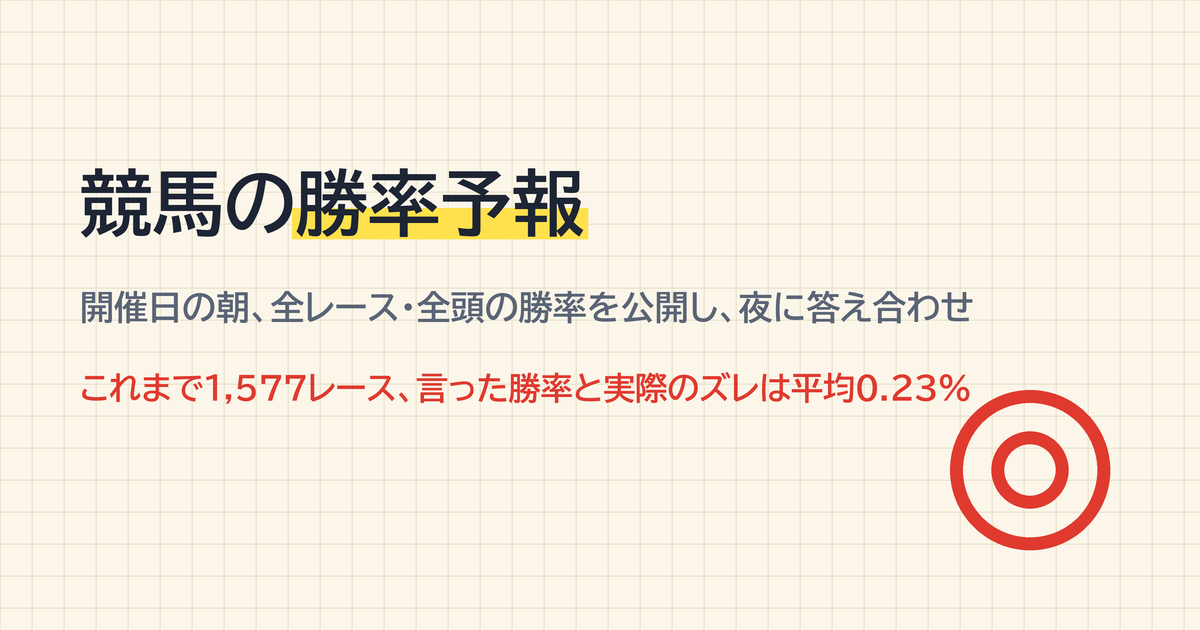
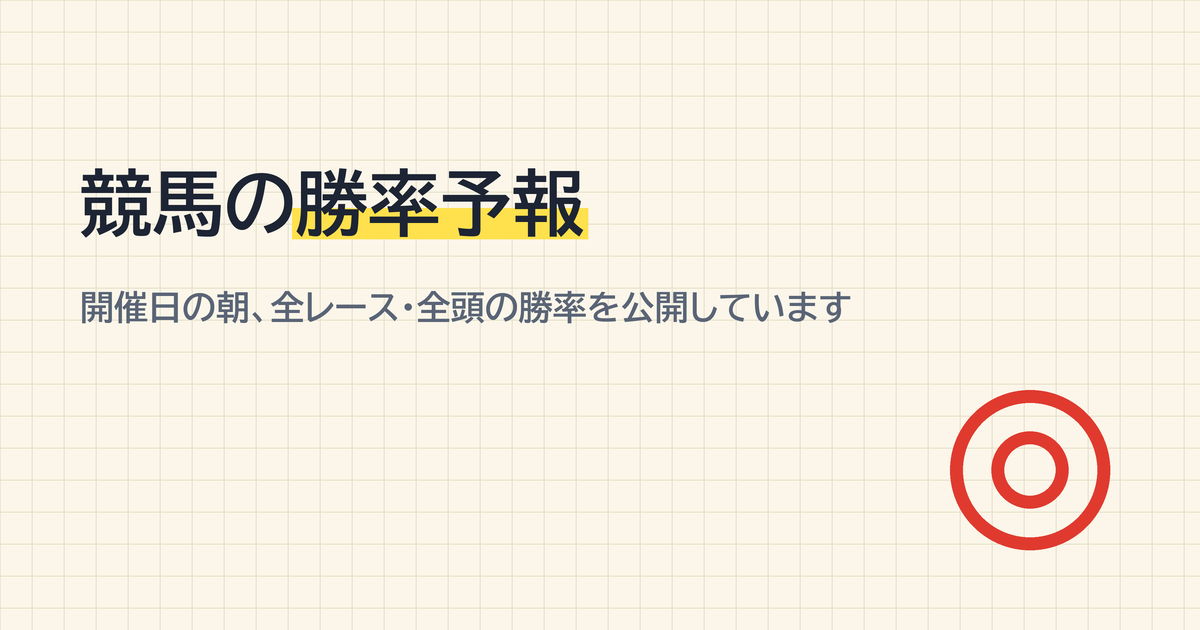
add: データコラムを公開

Changed region(s): [[0.0617, 0.573, 0.8017, 0.6635], [0.5858, 0.4524, 0.8325, 0.5127]]

diff --git a/index.html b/index.html
@@ -3,10 +3,10 @@
 <meta charset="utf-8">
 <meta name="viewport" content="width=device-width,initial-scale=1">
 <title>勝率予報 — 発走前に出した勝率と、その結果</title>
-<meta name="description" content="競馬AIが発走前に計算した全頭の勝率を公開し、結果と突き合わせた記録です。1,577レース21,220頭ぶん。">
+<meta name="description" content="競馬AIが計算した全頭の勝率を、レースが始まる前に公開しています。公開した数字はあとから書き換えません。">
 <meta property="og:type" content="website">
 <meta property="og:title" content="勝率予報 — 発走前に出した勝率と、その結果">
-<meta property="og:description" content="競馬AIが発走前に計算した全頭の勝率を公開し、結果と突き合わせた記録です。1,577レース21,220頭ぶん。">
+<meta property="og:description" content="競馬AIが計算した全頭の勝率を、レースが始まる前に公開しています。公開した数字はあとから書き換えません。">
 <meta property="og:url" content="https://akiaki4646.github.io/">
 <meta property="og:image" content="https://akiaki4646.github.io/ogp_default.png">
 <meta name="twitter:card" content="summary_large_image">
@@ -91,22 +91,14 @@ margin-bottom:6px}
 <nav class="sitenav" aria-label="サイトメニュー"><a class="home" href="/">勝率予報</a><a href="/column/">データコラム</a><a href="/method.html">予測のしくみ</a><a href="/race/">過去の予報</a><a href="/about.html">運営者情報</a></nav>
 <a class="hero" href="race/20261115.html"><img src="ogp_default.png" alt="勝率予報"></a>
 
-<h1>発走前に出した勝率を、<span class="mk">結果と突き合わせた</span>記録</h1>
-<p class="lead">競馬AIが計算した全頭の勝率を、レースが始まる前に公開しています。
-1,577レース・21,220頭ぶんの予報と結果がこのページに載っています。
-「30%」と予報した馬は、実際に34%が勝ちました。</p>
+<h1>発走前に出した勝率を、<span class="mk">書き換えずに</span>残しています</h1>
+<p class="lead">競馬AIが計算した全頭の勝率を、レースが始まる前に公開しています。</p>
 <p class="lead">当たった予報だけを後から選ぶことができないよう、
 予測は<strong>発走前の時点で保存</strong>し、後から書き換えていません。</p>
 <p class="lead">予報は、開催日の<strong>朝9時10分ごろ</strong>に、その日の全レースぶんを出します。
 前の日の夜にはまだありません。出たものは<a href="race/20261115.html">最新の勝率予報</a>から見られます。</p>
-
-<div class="kpi">
-  <div><b>0.23%</b><span>予報と結果の平均的なズレ</span></div>
-  <div><b>1,577</b><span>検証したレース</span></div>
-  <div><b>21,220</b><span>検証した頭数</span></div>
-</div>
-<p class="note">※ここでの「合っている」は、予報した確率どおりの割合で実際に起きている、という意味です。
-<strong>儲かることを意味しません</strong>。この予報どおりに買っても、控除率のぶん回収率は100%を下回ります。</p>
+<p class="note">※勝率が合っていることは、<strong>儲かることを意味しません</strong>。
+この予報どおりに買っても、控除率のぶん回収率は100%を下回ります。</p>
 
 <div class="follow">
   <a href="column/index.html">データコラムを読む</a>
@@ -114,51 +106,23 @@ margin-bottom:6px}
   <a href="race/20261115.html">最新の勝率予報</a>
 </div>
 
-<h2>帯ごとの答え合わせ</h2>
-<p>「勝率20〜30%と予報した馬は、本当にそのとおり勝ったのか」を帯ごとに並べています。
-検定に用いた9帯すべてで、予報した値は実際の結果の95%信頼区間に収まりました。
-ただし<strong>この「すべて一致」を成績として読まないでください</strong>。
-頭数の少ない帯は、そもそも一致しないほうが難しいだけです。
-意味があるのは頭数の多い上位3帯で、そこで合っていることがこの表の中身です。
-（下の表は読みやすさのため、頭数の少ない帯をまとめて7行にしています）</p>
-<table>
-<thead><tr><th>予報した勝率</th><th>頭数</th><th>予報</th><th>結果</th><th>差</th></tr></thead>
-<tbody><tr><td>0〜10%</td><td>16,186</td><td>3.0%</td><td>3.0%</td><td class='gap'>+0.0pt</td></tr><tr><td>10〜20%</td><td>2,877</td><td>14.1%</td><td>13.4%</td><td class='gap'>-0.7pt</td></tr><tr><td>20〜30%</td><td>1,174</td><td>24.4%</td><td>24.7%</td><td class='gap'>+0.3pt</td></tr><tr><td>30〜40%</td><td>565</td><td>34.4%</td><td>34.3%</td><td class='gap'>-0.0pt</td></tr><tr><td>40〜50%</td><td>249</td><td>43.9%</td><td>49.8%</td><td class='gap'>+5.9pt</td></tr><tr class='thin'><td>50〜60%</td><td>99</td><td>54.0%</td><td>57.6%</td><td class='gap'>+3.6pt</td></tr><tr class='thin'><td>60%以上</td><td>70</td><td>67.2%</td><td>64.3%</td><td class='gap'>-2.9pt</td></tr></tbody></table>
-<p class="note">＊の付いた行は頭数が少なく、数字がブレやすいので参考程度に見てください。
-それでも40%を超える帯（計418頭）は一貫して結果が予報をやや上回っており、
-「自信のある馬でも言い切らない」という予報の傾向がここにも表れています。</p>
-<p class="note">統計的な補足: 較正の適合度検定（Hosmer-Lemeshow）で p=0.05。
-「予報と実績にズレがある」とは言えない、という意味の数字です。
-なおこの検定は、ズレが無いことを証明するものではありません。</p>
-
-<h2>AIの本命</h2>
-<div class="card">
-<p>各レースで最も勝率が高いと判断した馬（◎）の成績です。</p>
-<table>
-<thead><tr><th>項目</th><th>値</th></tr></thead>
-<tbody>
-<tr><td>対象レース</td><td>1,577</td></tr>
-<tr><td>予報の平均勝率</td><td>34.2%</td></tr>
-<tr><td>実際の勝率</td><td>36.3%</td></tr>
-<tr><td>実際の複勝率</td><td>67.2%</td></tr>
-</tbody></table>
-</div>
+<h2>答え合わせの数字について</h2>
+<p>答え合わせの数字（検証したレース数や、予報と結果のズレ）は、いまこのページに載せていません。
+発走前に公開した数字だけで採点し直しているところです。まとまったら、ここに載せ直します。</p>
 
 <h2>この記録の読み方</h2>
 <p>「勝率30%」は、<strong>同じ予測を100回出したら30回前後勝つ</strong>という意味です。
 天気予報の降水確率と同じ読み方をします。</p>
-<p>数字は2026/5/17以降のもので、
-取消・除外で予測の配分が崩れた21レースは集計から除いています。</p>
 
 <div class="follow">
-  <a href="https://x.com/shoritsu_yoho">Xで毎週の答え合わせを見る</a>
+  <a href="https://x.com/shoritsu_yoho">Xで開催日の予報を受け取る</a>
   <a href="https://note.com/shoritsu_yoho">noteで全レースの予想を読む</a>
 </div>
 
 <div class="adbox"><span class="adlabel">スポンサーリンク</span><ins class="adsbygoogle" style="display:block" data-ad-client="ca-pub-3010782230345323" data-ad-slot="1245965145" data-ad-format="auto" data-full-width-responsive="true"></ins><script>(adsbygoogle=window.adsbygoogle||[]).push({});</script></div>
 <footer>
 <p>本記事の数値は自作の機械学習モデルの出力です。20歳未満の方は馬券を購入できません。</p>
-<p>最終更新 2026/11/17　|　2026/5/17〜2026/11/15（53開催日）</p>
+<p>最終更新 2026/11/19</p>
 <p><a href="method.html">予測のしくみ</a>　|　<a href="about.html">運営者情報</a>　|　<a href="privacy.html">プライバシーポリシー</a>　|　<a href="contact.html">お問い合わせ</a></p>
 </footer>
 </div></body></html>
